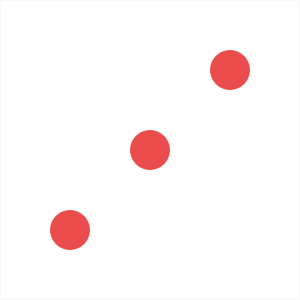
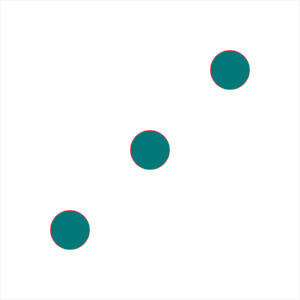
Changes done

Changed region(s): [[0.69, 0.15, 0.84, 0.3], [0.42, 0.42, 0.57, 0.57], [0.15, 0.69, 0.3, 0.84]]

diff --git a/style.css b/style.css
@@ -44,15 +44,17 @@ body {
       rgba(62, 20, 20, 0.4),
       rgba(62, 20, 20, 0.4)
     ),
-    url(back.jpg);
+    url(Dice-Game.jpg);
   background-size: cover;
   background-position: center;
   font-family: Lato;
-  font-weight: 300;
+  font-weight: 700;
   position: relative;
   height: 100vh;
   color: #555;
 }
+
+
 
 .wrapper {
   width: 1000px;
@@ -82,7 +84,7 @@ body {
   text-align: center;
   text-transform: uppercase;
   letter-spacing: 2px;
-  font-weight: 100;
+  font-weight: 400;
   margin-top: 20px;
   margin-bottom: 10px;
   position: relative;
@@ -91,8 +93,8 @@ body {
 .player-score {
   text-align: center;
   font-size: 80px;
-  font-weight: 100;
-  color: #eb4d4d;
+  font-weight: 400;
+  color: #008b495f;
   margin-bottom: 130px;
 }
 
@@ -100,20 +102,22 @@ body {
   background-color: #f7f7f7;
 }
 .active .player-name {
-  font-weight: 300;
+  font-weight: 600;
 }
 
 .active .player-name::after {
   content: '\2022';
   font-size: 47px;
   position: absolute;
-  color: #eb4d4d;
+  color: #008b495f;
   top: -7px;
   right: 10px;
 }
 
 .player-current-box {
-  background-color: #eb4d4d;
+  /* background-color: #eb4d4d; */
+  background-color: #008b495f;
+
   color: #fff;
   width: 40%;
   margin: 0 auto;
@@ -144,12 +148,12 @@ button {
   font-size: 20px;
   text-transform: uppercase;
   cursor: pointer;
-  font-weight: 300;
+  font-weight: 700;
   transition: background-color 0.3s, color 0.3s;
 }
 
 button:hover {
-  font-weight: 600;
+  font-weight: 700;
 }
 button:hover i {
   margin-right: 20px;
@@ -160,7 +164,7 @@ button:focus {
 }
 
 i {
-  color: #eb4d4d;
+  color: #008b495f;
   display: inline-block;
   margin-right: 15px;
   font-size: 32px;
@@ -193,6 +197,6 @@ i {
   background-color: #f7f7f7;
 }
 .winner .player-name {
-  font-weight: 300;
-  color: #eb4d4d;
+  font-weight: 800;
+  color: #008b495f;
 }
